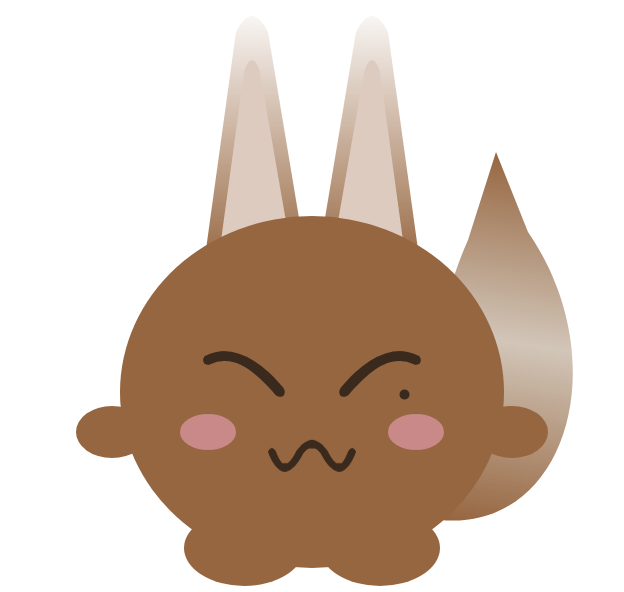
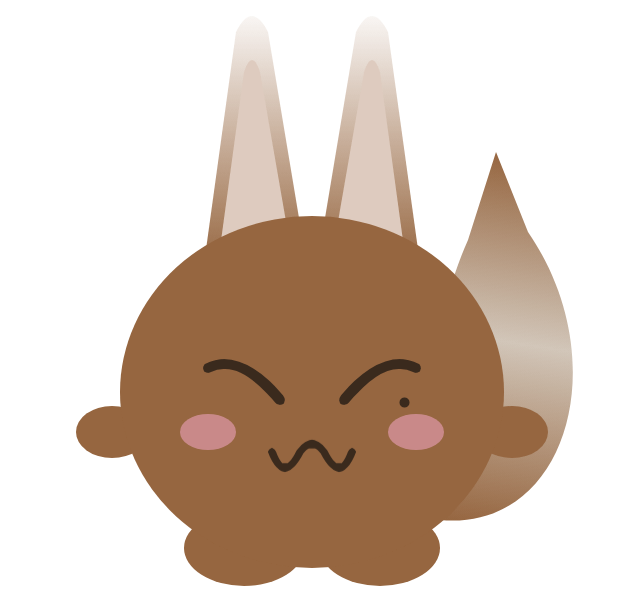
Move 玖球's eyes and beauty mark down a little
- Shift the eyes and beauty mark down in all 玖球 PNGs and home-screen icons
- Match the SVG fallback in mole-icon.js

Changed region(s): [[0.5481, 0.5777, 0.6699, 0.6993], [0.3045, 0.5777, 0.4567, 0.6993]]

diff --git a/games/mole-icon.js b/games/mole-icon.js
@@ -34,9 +34,9 @@ function moleSvgMarkup(idSuffix, furColor) {
   '<ellipse cx="60" cy="66" rx="48" ry="44" fill="' + fur + '"/>' +
   '<ellipse cx="34" cy="76" rx="7" ry="4.5" fill="#F3A6C4" opacity=".55"/>' +
   '<ellipse cx="86" cy="76" rx="7" ry="4.5" fill="#F3A6C4" opacity=".55"/>' +
-  '<path d="M52,66 Q42,54 34,58" fill="none" stroke="var(--ink)" stroke-width="2.5" stroke-linecap="round"/>' +
-  '<path d="M68,66 Q78,54 86,58" fill="none" stroke="var(--ink)" stroke-width="2.5" stroke-linecap="round"/>' +
-  '<circle cx="83" cy="66.5" r="1.3" fill="var(--ink)"/>' +
+  '<path d="M52,68 Q42,56 34,60" fill="none" stroke="var(--ink)" stroke-width="2.5" stroke-linecap="round"/>' +
+  '<path d="M68,68 Q78,56 86,60" fill="none" stroke="var(--ink)" stroke-width="2.5" stroke-linecap="round"/>' +
+  '<circle cx="83" cy="68.5" r="1.3" fill="var(--ink)"/>' +
   '<path d="M50,81 Q53,89 57,81 Q60,77 63,81 Q67,89 70,81" fill="none" stroke="var(--ink)" stroke-width="1.9" stroke-linecap="round" stroke-linejoin="round"/>' +
   '</svg>';
 }
